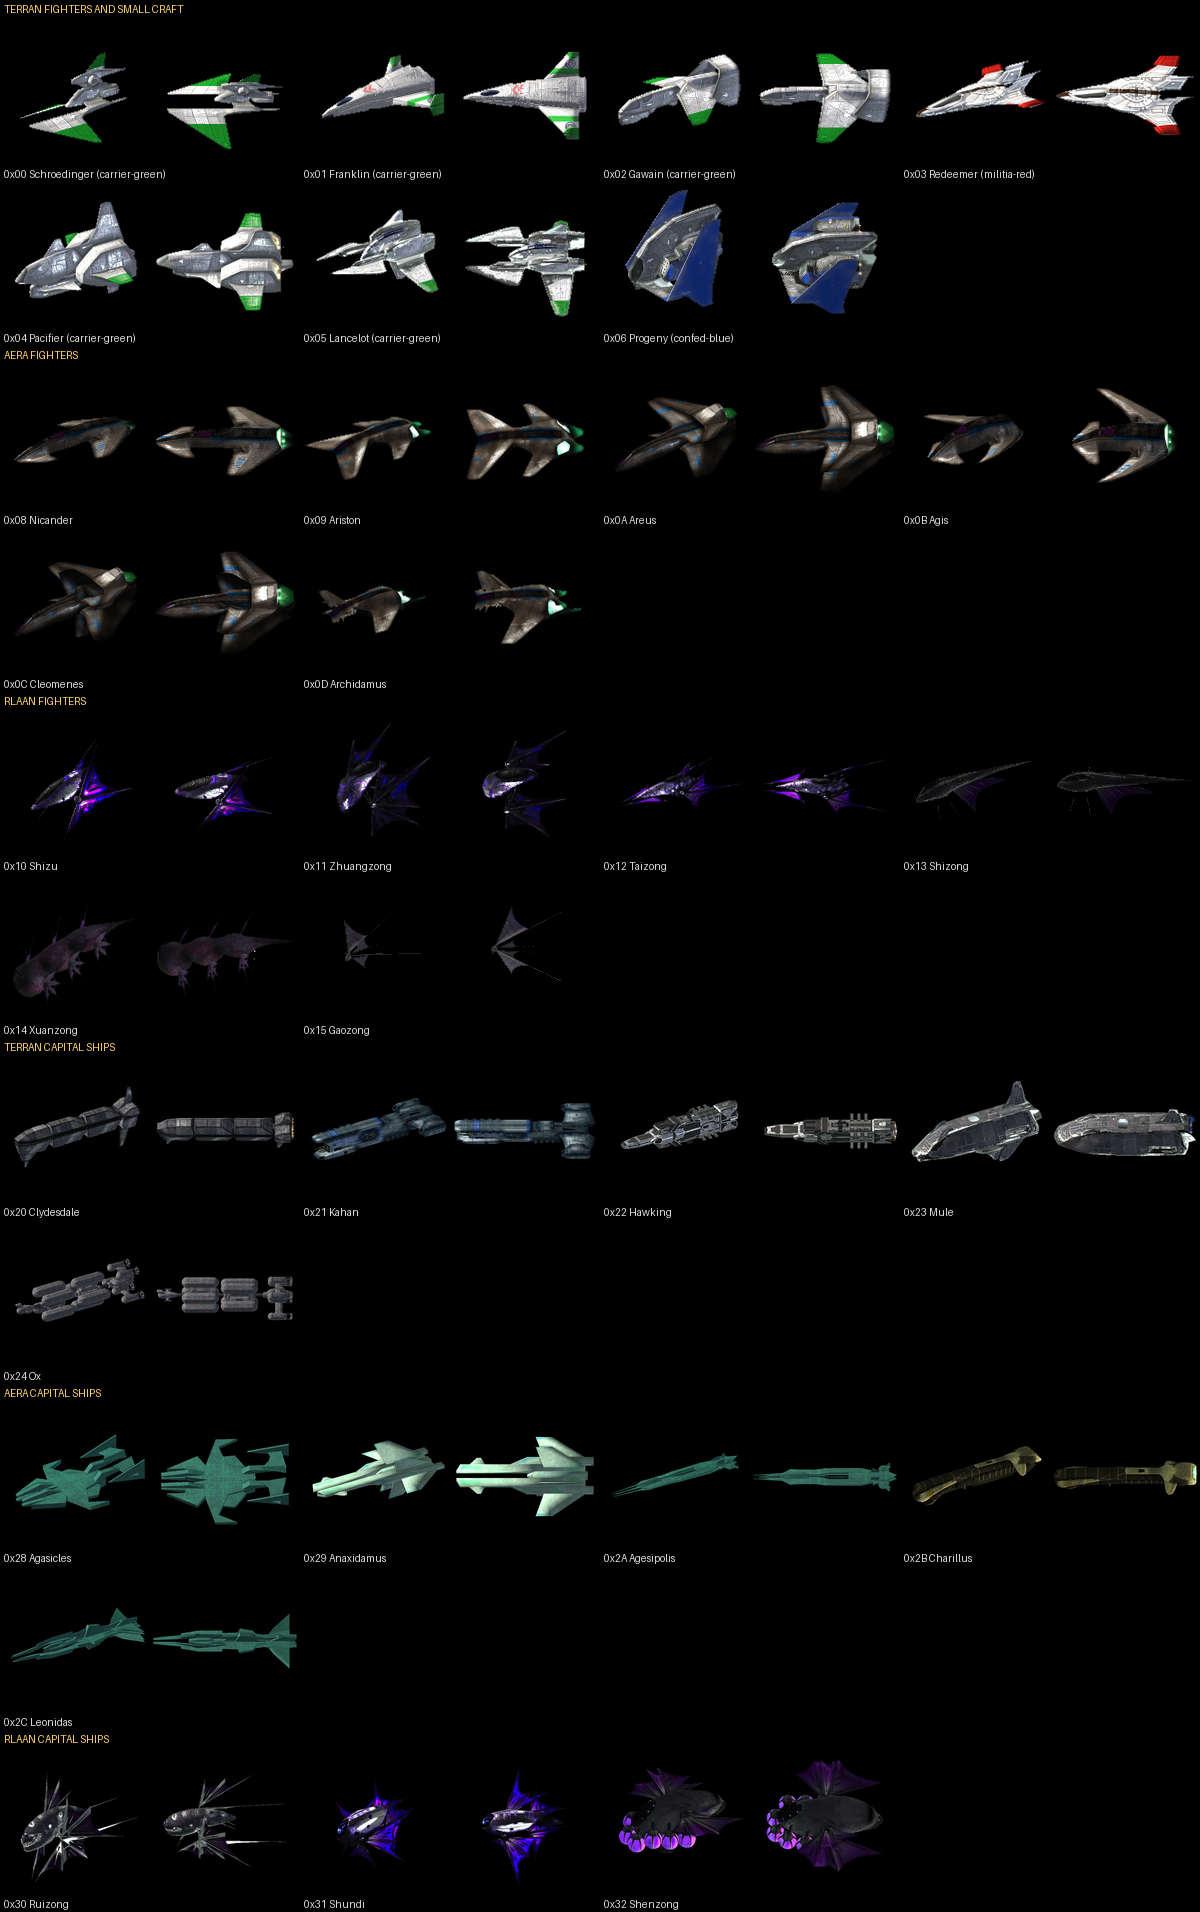
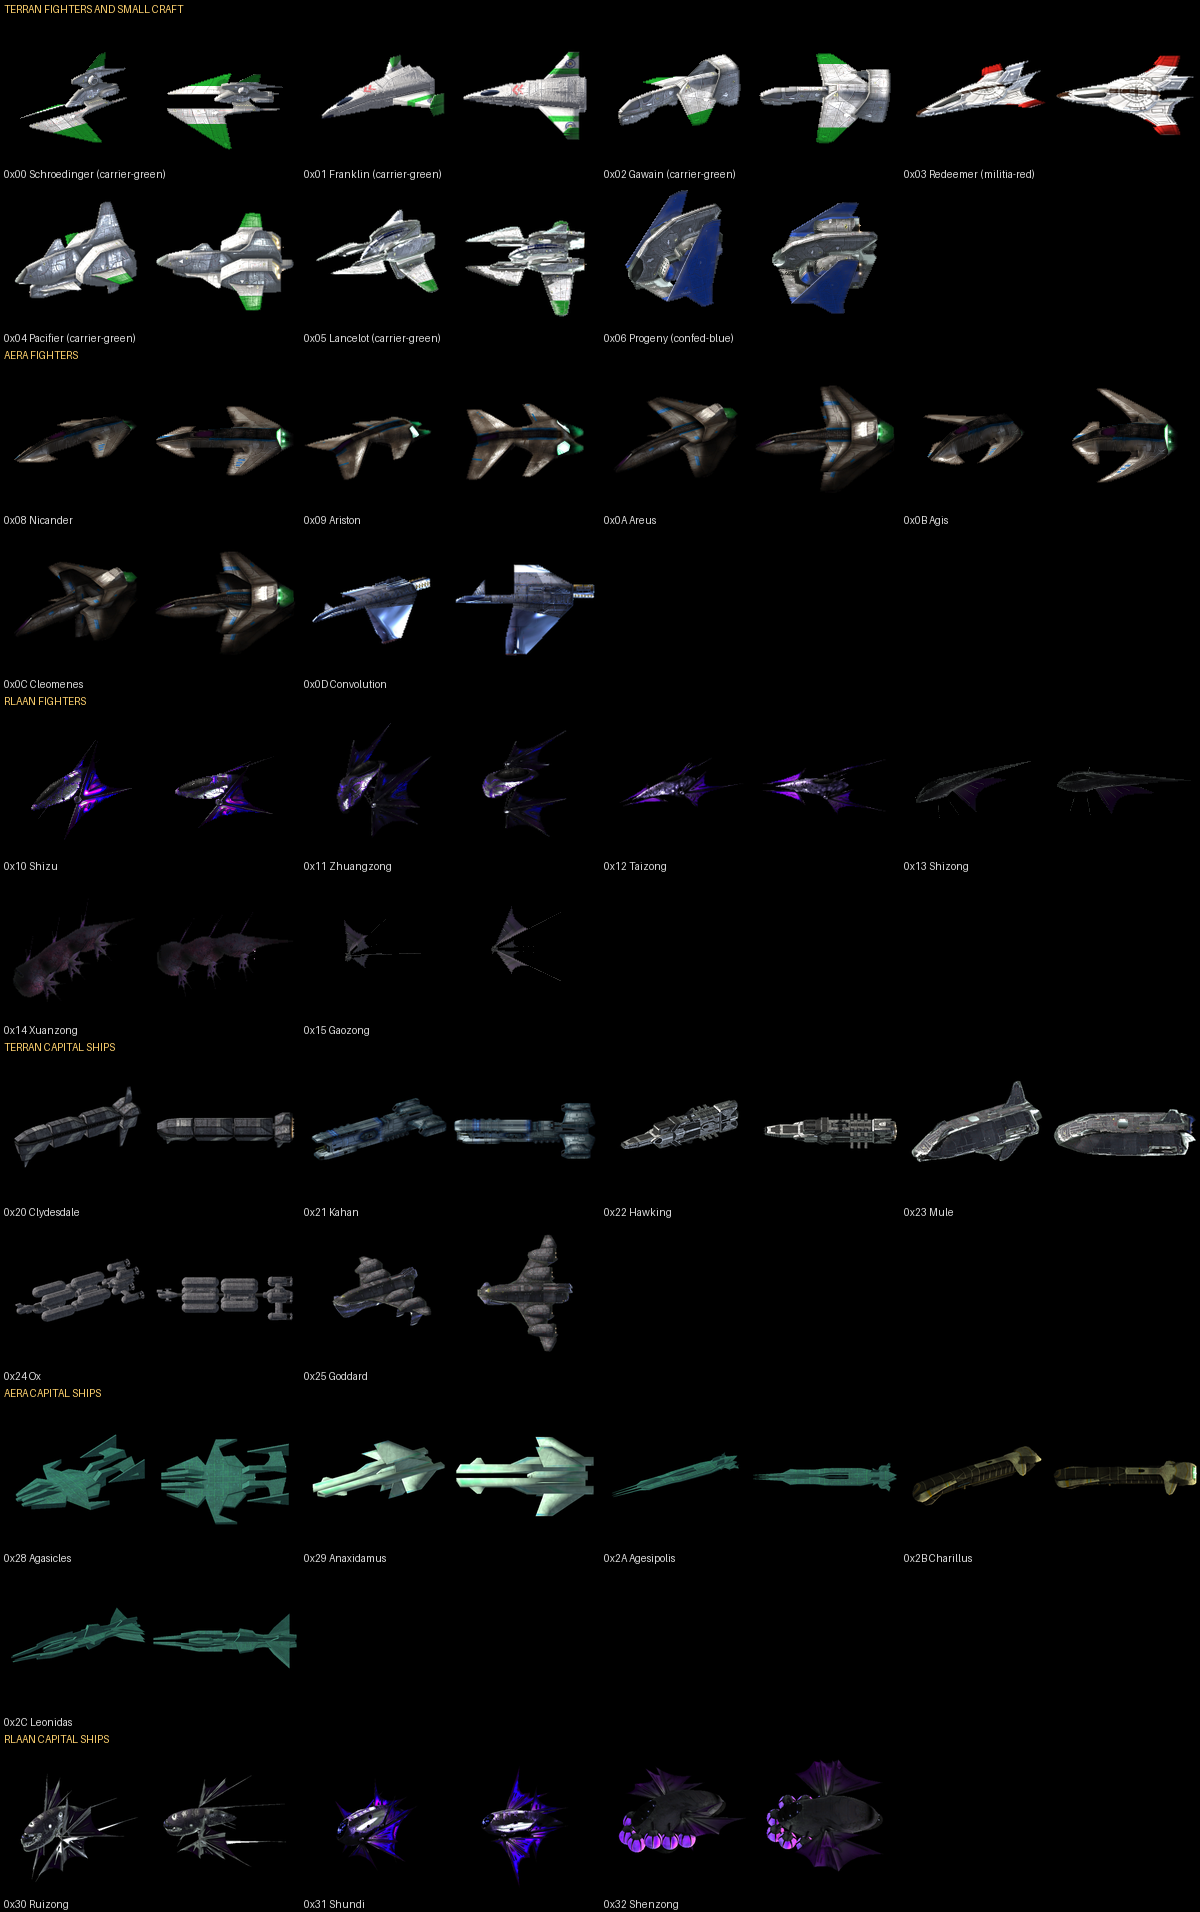
retrovega: the Convolution replaces the Archidamus, in the Aera's sheen; the Goddard joins as an escort target
The aces' asymmetric fighter (0x0D) is now Vega Strike's own Convolution
(the user's pick): 62 views, blue-silver like the Aera fighters' VDUs
through a new art.csv column, sheen (the tint of the metal's reflection),
with its chrome-white wing toned down. shipviews.py finds an asymmetric
canon mesh by itself (its mirror image misses it). The Goddard, the
Andolian heavy bomber, is ship 0x25: escorted to its target now and then.
Palette, packed ships, gallery and VDU sheet rebuilt.

Claude-Session: https://claude.ai/code/session_019Nres1uExFzYT7oEr38LtM

diff --git a/retrovega/tools/shipviews.py b/retrovega/tools/shipviews.py
@@ -148,6 +148,7 @@ uniform float whiten;
 uniform float hull_gain;  // the hull's diffuse brightened before paint (detail kept)
 uniform float paint_scale; // the livery colours' brightness (canon ships: darker, under their brighter exposure)
 uniform vec3 tint;        // the whole hull's colour multiplied in, luminance kept (1 1 1: none)
+uniform vec3 sheen;       // the same for its metal's reflection (canon ships), luminance kept
 uniform float detail_k;   // how much of the texture's fine detail shows
 uniform float bump_k;     // how much that detail bends the light (bevels)
 uniform float shine;      // the hull's least specular strength
@@ -324,7 +325,7 @@ void main() {
     albedo = mix(albedo, glass_col, g);
     vec3 specc = lin(texture(spec_map, v_uv).rgb);
     // (paint on a canon ship is semi-matte: it keeps 40% of the metal's gloss)
-    if (vs_mode > 0.5) specc *= 1.0 - 0.6 * max(p1, p2);
+    if (vs_mode > 0.5) specc *= (1.0 - 0.6 * max(p1, p2)) * sheen;
     if (vs_mode > 0.5) {
         vec3 kdir = normalize(key_pos - v_view);
         vec4 glw = texture(glow_map, v_uv);
@@ -584,6 +585,25 @@ def environment(ctx, assets, name, size=256):
     return tex
 
 
+ASYM = 0.02   # a mesh is asymmetric when its mirror image misses it by this much of its radius
+
+
+def asymmetric(row, parts):
+    """Whether a ship needs all its headings drawn: a recipe that says so, or a
+    mesh whose left-right mirror image lies off it (the median distance from
+    a mirrored vertex to the nearest vertex, over the radius).  Every canon
+    ship is under 0.005; the Convolution is 0.15."""
+    if row['mesh'].startswith('hull:'):
+        return hulls.asymmetric(row['mesh'][5:])
+    from scipy.spatial import cKDTree
+    p = np.concatenate([m.positions for m in parts])
+    c = (p.min(0) + p.max(0)) / 2
+    m = p.copy()
+    m[:, 0] = 2 * c[0] - m[:, 0]
+    d, _ = cKDTree(p).query(m)
+    return float(np.median(d)) > ASYM * float(np.linalg.norm(p - c, axis=1).max())
+
+
 def ship_mesh(row, assets):
     """A ship's mesh as the views are drawn from it: its parts, stretched
     (data/art.csv), its engine lights, the centre the views turn about and
@@ -616,10 +636,10 @@ def render(row, outdir, size, assets, livery_name=None, key=KEY_DIR, ambient=AMB
     livery = table_row('liveries.csv', livery_name, 'name')
     if livery is None:
         sys.exit('no livery %r in data/liveries.csv' % livery_name)
-    views_wanted = VIEWS_ASYM if row['mesh'].startswith('hull:') and hulls.asymmetric(row['mesh'][5:]) else VIEWS
+    parts, lights, center, radius = ship_mesh(row, assets)
+    views_wanted = VIEWS_ASYM if asymmetric(row, parts) else VIEWS
     if views:
         views_wanted = views
-    parts, lights, center, radius = ship_mesh(row, assets)
     allpos = np.concatenate([m.positions for m in parts])
 
     ctx = moderngl.create_standalone_context(backend='egl')
@@ -639,6 +659,9 @@ def render(row, outdir, size, assets, livery_name=None, key=KEY_DIR, ambient=AMB
     t = [(float(v) / 255.0) ** 2.2 for v in (art.get('tint') or '255 255 255').split()]
     lum = 0.2126 * t[0] + 0.7152 * t[1] + 0.0722 * t[2]
     prog['tint'].value = tuple(c / lum for c in t)
+    t = [(float(v) / 255.0) ** 2.2 for v in (art.get('sheen') or '255 255 255').split()]
+    lum = 0.2126 * t[0] + 0.7152 * t[1] + 0.0722 * t[2]
+    prog['sheen'].value = tuple(c / lum for c in t)
     prog['hull_gain'].value = float(art.get('gain') or 1.0)
     prog['paint_scale'].value = VS_PAINT if (art.get('mode') or 'vs') == 'vs' else 1.0
     prog['detail_k'].value = float(art.get('detail') or 0.6)
@@ -833,8 +856,7 @@ def main():
     views = [tuple(float(v) for v in pair.split(',')) for pair in args.views.split(';')] if args.views else None
     r = render(row, args.outdir, size, args.assets, args.livery, key, args.ambient, args.shine, args.tag,
                args.env, args.env_gain, args.key_power, args.exposure, args.reflect, views)
-    asym = row['mesh'].startswith('hull:') and hulls.asymmetric(row['mesh'][5:])
-    count = len(views) if views else 62 if asym else 37
+    count = len(views) if views else 62 if asymmetric(row, ship_mesh(row, args.assets)[0]) else 37
     print('%s: %d views at %d px, radius %.2f' % (row['name'], count, size, r))
 
 

diff --git a/retrovega/docs/art.md b/retrovega/docs/art.md
@@ -70,6 +70,8 @@ A ship takes about 4 seconds at 160 px. Outputs, with TAG = KEY-LIVERY:
 | `toon` | key-light bands (3 gives a cel look; 0 is smooth) |
 | `mode` | `vs` or `retro` (above) |
 | `tint` | r g b: the whole hull's colour multiplied in, its brightness kept |
+| `sheen` | r g b: the same for the metal's reflection (canon ships), its brightness kept: the Aera's blue-silver on the Convolution |
+| `reflect` | how strongly the metal mirrors the sky (canon ships). Default 1. |
 | `whiten` | 0..1: how far the hull goes toward light grey |
 | `detail` | 0..1: how much of the texture's fine detail (panel lines, vents, grime) shows on top of the whitened hull and the paint. Default 0.6. |
 | `bump` | how much that detail bends the light, so panel edges catch it like bevels and greebles. Default 1. |
@@ -154,7 +156,7 @@ exhaust points) and applies these operations:
 | `cut` | removes a box of triangles |
 | `graft` | copies a box of triangles from any Vega Strike mesh, scaled, placed, rolled about the nose axis and optionally mirrored |
 
-Normals follow each deformation through its Jacobian. The three new Aera
+Normals follow each deformation through its Jacobian. The new Aera
 fighters, compared with their bases in
 [aera-new.png](aera-new.png):
 
@@ -162,11 +164,22 @@ fighters, compared with their bases in
 |---|---|
 | Agis | Nicander cut short, its wings swept forward into a gull W: a swarm fighter |
 | Cleomenes | Areus with a copy of its own wing upright above and below: a cross seen from the front |
-| Archidamus | Ariston rebuilt asymmetric: its big rear wing, half again as large, on the right only, and two small front wings angled up and down on the left. The aces' ship. `ARCHIDM_CLAW`, the first forward-swept version, is kept as an alternative. |
+| Archidamus | Ariston rebuilt asymmetric: its big rear wing, half again as large, on the right only, and two small front wings angled up and down on the left. **Retired from the roster**: the user chose Vega Strike's own asymmetric Aera fighter, the Convolution, for the aces. The recipe (and `ARCHIDM_CLAW`, its first forward-swept version) stays in hulls.py. |
 
-An asymmetric recipe cannot use WC1's mirrored headings. It renders 62
+An asymmetric ship cannot use WC1's mirrored headings. It renders 62
 views: WC1's 37, then headings 210, 240, 270, 300 and 330 of each band
-(37..61).
+(37..61). A recipe says so (`asym`); a canon mesh is found asymmetric by
+itself when its left-right mirror image misses it: the median distance
+from a mirrored vertex to the nearest vertex over 2% of the radius. Every
+other canon ship is under 0.5%; the Convolution is 15%.
+
+**Sheen** (data/art.csv) is `tint` for the metal's reflection: the
+specular map's colour multiplied by it, luminance kept. The Convolution's
+texture is plain grey with a white specular map over its big wing, which
+mirrored the sky like chrome. With `tint 200 205 225`, `sheen 120 150 240`
+and `reflect 0.6` it takes the blue-silver of the Aera fighters' VDUs.
+(`tint` and `sheen` both `70 160 150` would make it teal, like the Aera
+capital ships.)
 
 ## Facts about the Vega Strike data
 

diff --git a/retrovega/README.md b/retrovega/README.md
@@ -79,8 +79,8 @@ Possible series:
 
 | | Terran Confederation | Aera | Rlaan |
 |---|---|---|---|
-| fighters | Schroedinger (light, the starter), Gawain (interceptor), Redeemer (militia assault), Pacifier/Osprey (fighter-bomber with a rear gunner seat), Lancelot/Destiny (heavy, if the art budget allows); Progeny/Mongoose rare, mostly escorted | Nicander, Ariston, Areus, plus three new hulls built from them (tools/hulls.py): Agis (swarm fighter, gull-winged), Cleomenes (heavy assault, cross-winged), Archidamus (the aces' asymmetric fighter) | Shizu (scout), Zhuangzong (line), Taizong (assault bomber), Shizong (disabler), Xuanzong (jammer), Gaozong (probe) |
-| small craft | Franklin, the personnel transport: usually escorted, flown by the player on one or two missions where nothing else can get through | | |
+| fighters | Schroedinger (light, the starter), Gawain (interceptor), Redeemer (militia assault), Pacifier/Osprey (fighter-bomber with a rear gunner seat), Lancelot/Destiny (heavy, if the art budget allows); Progeny/Mongoose rare, mostly escorted | Nicander, Ariston, Areus, Convolution (the aces' asymmetric strike fighter, in the Aera's blue-silver sheen), plus two new hulls built from them (tools/hulls.py): Agis (swarm fighter, gull-winged), Cleomenes (heavy assault, cross-winged) | Shizu (scout), Zhuangzong (line), Taizong (assault bomber), Shizong (disabler), Xuanzong (jammer), Gaozong (probe) |
+| small craft | Franklin, the personnel transport: usually escorted, flown by the player on one or two missions where nothing else can get through; Goddard, the Andolian heavy bomber, escorted to its target from time to time | | |
 | capital ships | Clydesdale (home carrier), Kahan (Andolian destroyer), Hawking (cruiser), Mule and Ox (transports) | Agasicles (destroyer), Anaxidamus (cruiser), Agesipolis (carrier), Charillus (transport), Leonidas (dreadnought) | Ruizong (destroyer), Shundi (cruiser and launch ship), Shenzong (transport) |
 
 The factions differ in defence:

diff --git a/retrovega/docs/spec.md b/retrovega/docs/spec.md
@@ -468,7 +468,8 @@ run-length code, so `scripts/wc2data.py` (`encode_sprite`,
 **Asymmetric ships** cannot be mirrored. They carry 62 views: the 37
 above, then headings 210, 240, 270, 300 and 330 of each band, in band
 order (37..61). A flag in the ship's record tells the engine to use them
-instead of mirroring. Archidamus is the first.
+instead of mirroring. The Convolution, Vega Strike's own asymmetric Aera
+fighter, is the first.
 
 Our order inside each band is the one above. WC1's own files use the same
 37 slots but do not run every band front to back. If we ever want sprites
@@ -631,8 +632,8 @@ in every livery.
 the targeting VDU and briefing/ship-select art. They are posterised into
 the palette and touched up by hand: 96 px in high resolution, 48 px in low.
 
-**New Aera hulls** (Agis, Cleomenes, Archidamus) are mesh edits of
-Nicander, Areus and Ariston, rendered by the same path. The Charillus'
+**New Aera hulls** (Agis, Cleomenes) are mesh edits of Nicander and
+Areus, rendered by the same path. The Charillus'
 tan hull takes an Aera livery. The Leonidas' VDU is only a silhouette, so
 its art comes from the mesh.
 
